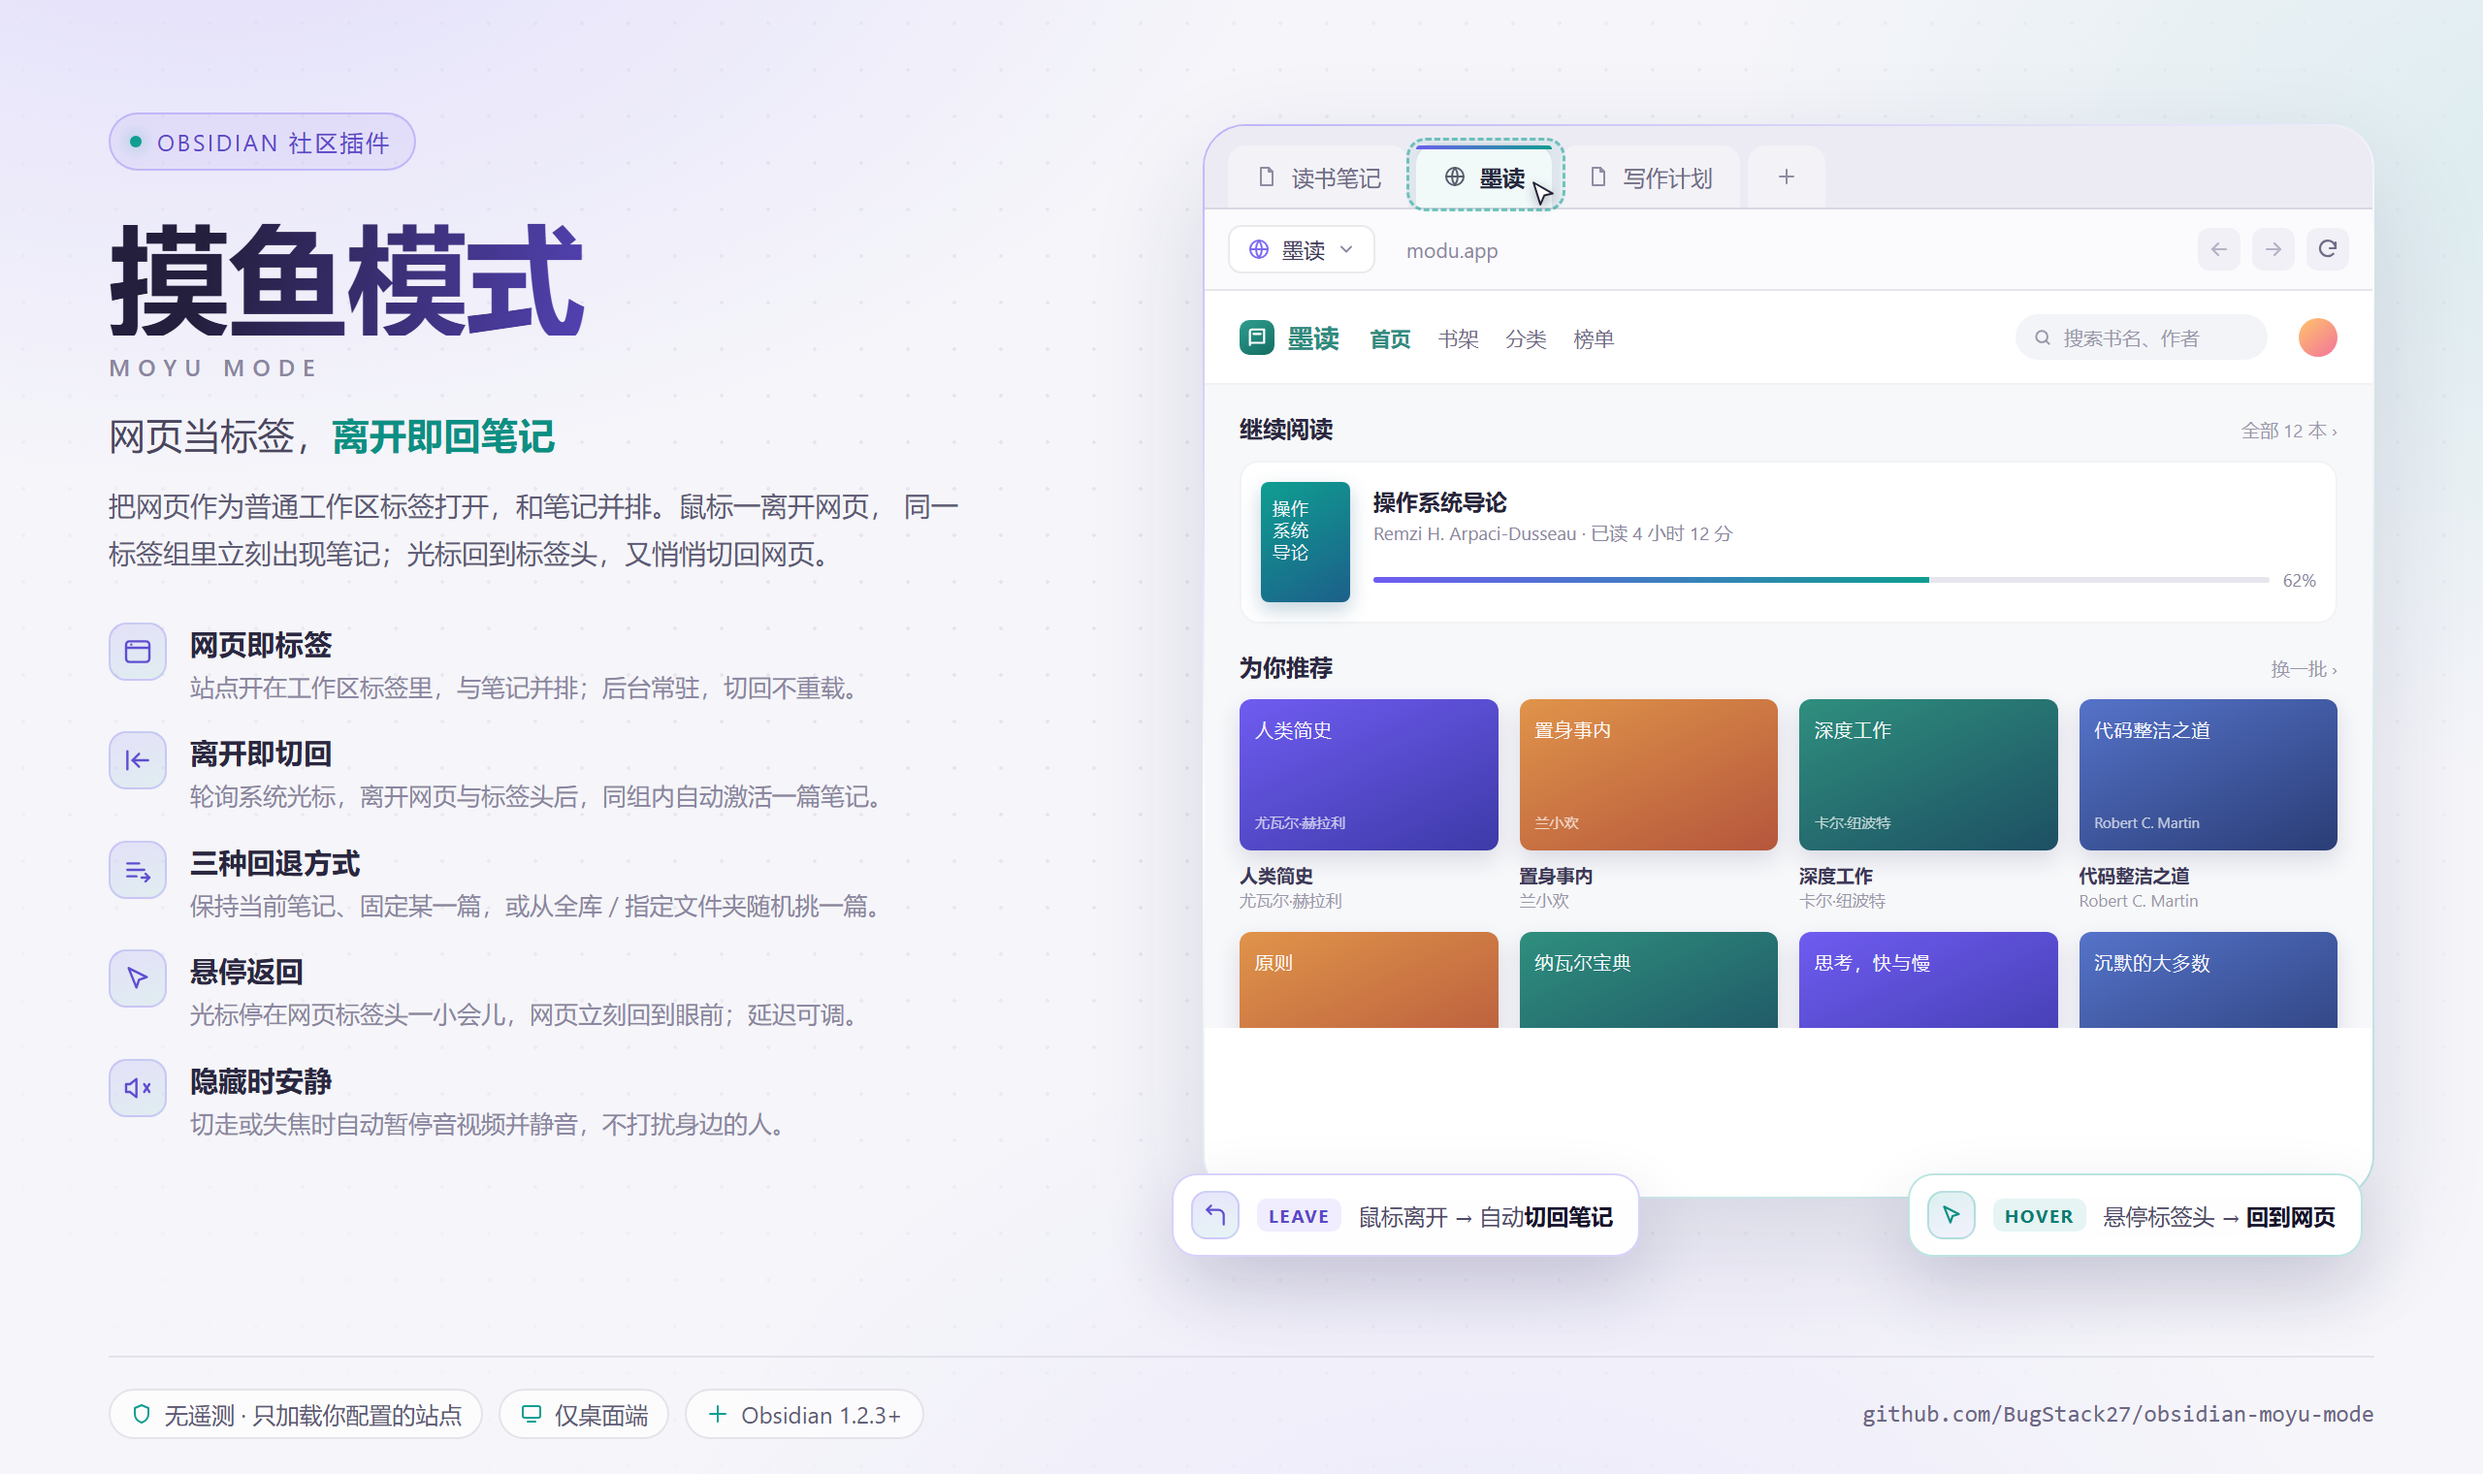
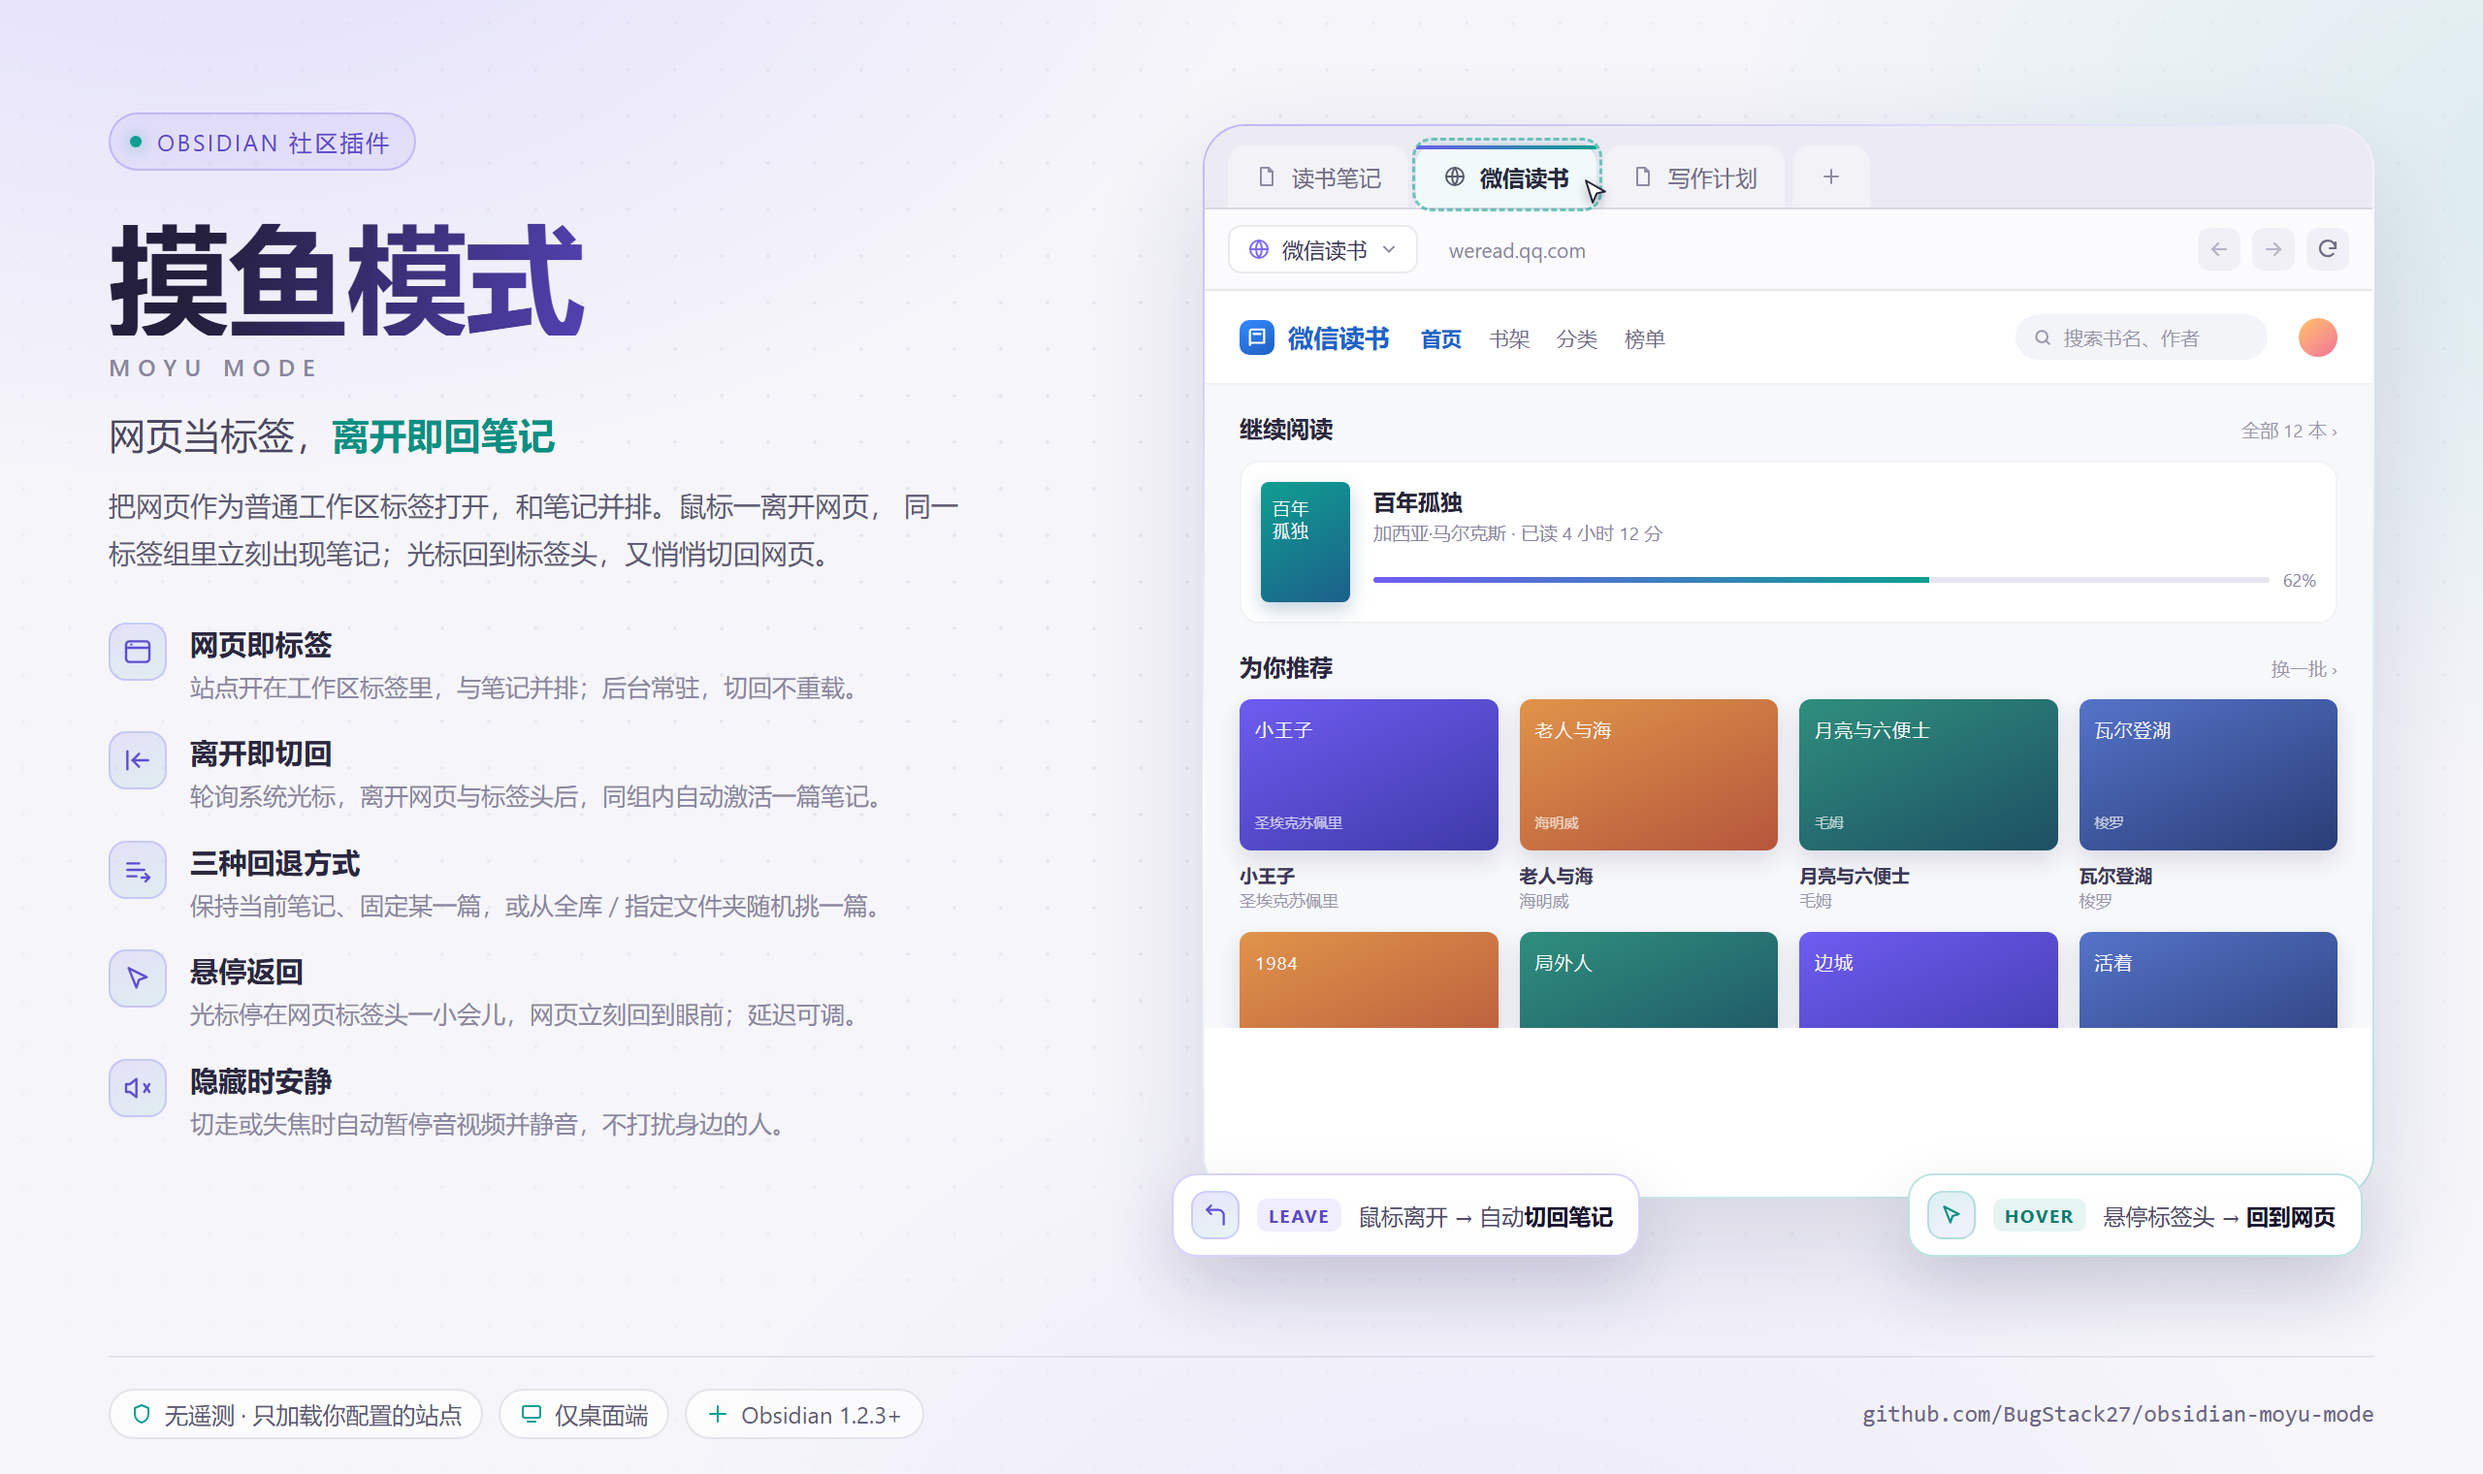
docs: 宣传图恢复微信读书并更换书目
- 模拟站点恢复为微信读书与 weread.qq.com
- 继续阅读与推荐书目换成通用经典书，不展示个人书单

diff --git a/assets/promo.html b/assets/promo.html
@@ -225,9 +225,9 @@
   /* Hover hint on the tab */
   .tab-hover {
     position: absolute;
-    left: 104px;
+    left: 107px;
     top: 6px;
-    width: 82px;
+    width: 98px;
     height: 38px;
     border: 1.5px dashed rgba(15, 158, 145, 0.55);
     border-radius: 10px;
@@ -236,8 +236,8 @@
   }
   .cursor {
     position: absolute;
-    left: 166px;
-    top: 27px;
+    left: 193px;
+    top: 26px;
     width: 17px;
     height: 17px;
     filter: drop-shadow(0 2px 3px rgba(20, 16, 50, 0.3));
@@ -303,19 +303,19 @@
   }
   .brand {
     display: flex; align-items: center; gap: 7px;
-    font-size: 13px; font-weight: 700; color: #2e8b7d;
+    font-size: 13px; font-weight: 700; color: #1e63c8;
     letter-spacing: 0.01em;
   }
   .brand .mark {
     width: 18px; height: 18px;
     border-radius: 5px;
-    background: linear-gradient(150deg, #2f9e8f, #146c62);
+    background: linear-gradient(150deg, #338aff, #1e5fc0);
     display: flex; align-items: center; justify-content: center;
     color: #ffffff;
   }
   .brand .mark svg { width: 11px; height: 11px; }
   .web-links { display: flex; gap: 14px; font-size: 10.5px; color: #6f6b86; }
-  .web-links .on { color: #2e8b7d; font-weight: 600; }
+  .web-links .on { color: #1e63c8; font-weight: 600; }
   .web-search {
     margin-left: auto;
     display: flex; align-items: center; gap: 6px;
@@ -552,7 +552,7 @@
               </div>
               <div class="tab active">
                 <svg viewBox="0 0 24 24" fill="none" stroke="currentColor" stroke-width="2" stroke-linecap="round" stroke-linejoin="round"><circle cx="12" cy="12" r="9"/><path d="M3 12h18"/><path d="M12 3a15 15 0 0 1 0 18 15 15 0 0 1 0-18z"/></svg>
-                墨读
+                微信读书
               </div>
               <div class="tab">
                 <svg viewBox="0 0 24 24" fill="none" stroke="currentColor" stroke-width="2" stroke-linecap="round" stroke-linejoin="round"><path d="M6 3h8l4 4v14H6z"/><path d="M14 3v4h4"/></svg>
@@ -571,10 +571,10 @@
             <div class="toolbar">
               <div class="site-select">
                 <svg class="globe" viewBox="0 0 24 24" fill="none" stroke="currentColor" stroke-width="2" stroke-linecap="round" stroke-linejoin="round"><circle cx="12" cy="12" r="9"/><path d="M3 12h18"/><path d="M12 3a15 15 0 0 1 0 18 15 15 0 0 1 0-18z"/></svg>
-                墨读
+                微信读书
                 <svg viewBox="0 0 24 24" fill="none" stroke="currentColor" stroke-width="2.2" stroke-linecap="round" stroke-linejoin="round"><path d="m6 9 6 6 6-6"/></svg>
               </div>
-              <div class="address">modu.app</div>
+              <div class="address">weread.qq.com</div>
               <div class="navbtns">
                 <span class="navbtn dim"><svg viewBox="0 0 24 24" fill="none" stroke="currentColor" stroke-width="2.2" stroke-linecap="round" stroke-linejoin="round"><path d="M19 12H5"/><path d="m11 6-6 6 6 6"/></svg></span>
                 <span class="navbtn dim"><svg viewBox="0 0 24 24" fill="none" stroke="currentColor" stroke-width="2.2" stroke-linecap="round" stroke-linejoin="round"><path d="M5 12h14"/><path d="m13 6 6 6-6 6"/></svg></span>
@@ -588,7 +588,7 @@
                   <span class="mark">
                     <svg viewBox="0 0 24 24" fill="none" stroke="currentColor" stroke-width="2.4" stroke-linecap="round" stroke-linejoin="round"><path d="M4 5.5A2.5 2.5 0 0 1 6.5 3H20v15H6.5A2.5 2.5 0 0 0 4 20.5z"/><path d="M8 8h8"/></svg>
                   </span>
-                  墨读
+                  微信读书
                 </div>
                 <div class="web-links">
                   <span class="on">首页</span>
@@ -610,10 +610,10 @@
                 </div>
 
                 <div class="continue">
-                  <div class="cover"><span>操作</span><span>系统</span><span>导论</span></div>
+                  <div class="cover"><span>百年</span><span>孤独</span></div>
                   <div class="meta">
-                    <div class="book">操作系统导论</div>
-                    <div class="author">Remzi H. Arpaci-Dusseau · 已读 4 小时 12 分</div>
+                    <div class="book">百年孤独</div>
+                    <div class="author">加西亚·马尔克斯 · 已读 4 小时 12 分</div>
                     <div class="progress">
                       <div class="bar"><i></i></div>
                       <span class="pct">62%</span>
@@ -628,44 +628,44 @@
 
                 <div class="shelf">
                   <div class="book-card">
-                    <div class="bc b1"><span>人类简史</span><span class="by">尤瓦尔·赫拉利</span></div>
-                    <div class="bt">人类简史</div>
-                    <div class="ba">尤瓦尔·赫拉利</div>
+                    <div class="bc b1"><span>小王子</span><span class="by">圣埃克苏佩里</span></div>
+                    <div class="bt">小王子</div>
+                    <div class="ba">圣埃克苏佩里</div>
                   </div>
                   <div class="book-card">
-                    <div class="bc b2"><span>置身事内</span><span class="by">兰小欢</span></div>
-                    <div class="bt">置身事内</div>
-                    <div class="ba">兰小欢</div>
+                    <div class="bc b2"><span>老人与海</span><span class="by">海明威</span></div>
+                    <div class="bt">老人与海</div>
+                    <div class="ba">海明威</div>
                   </div>
                   <div class="book-card">
-                    <div class="bc b3"><span>深度工作</span><span class="by">卡尔·纽波特</span></div>
-                    <div class="bt">深度工作</div>
-                    <div class="ba">卡尔·纽波特</div>
+                    <div class="bc b3"><span>月亮与六便士</span><span class="by">毛姆</span></div>
+                    <div class="bt">月亮与六便士</div>
+                    <div class="ba">毛姆</div>
                   </div>
                   <div class="book-card">
-                    <div class="bc b4"><span>代码整洁之道</span><span class="by">Robert C. Martin</span></div>
-                    <div class="bt">代码整洁之道</div>
-                    <div class="ba">Robert C. Martin</div>
+                    <div class="bc b4"><span>瓦尔登湖</span><span class="by">梭罗</span></div>
+                    <div class="bt">瓦尔登湖</div>
+                    <div class="ba">梭罗</div>
                   </div>
                   <div class="book-card">
-                    <div class="bc b2"><span>原则</span><span class="by">瑞·达利欧</span></div>
-                    <div class="bt">原则</div>
-                    <div class="ba">瑞·达利欧</div>
+                    <div class="bc b2"><span>1984</span><span class="by">乔治·奥威尔</span></div>
+                    <div class="bt">1984</div>
+                    <div class="ba">乔治·奥威尔</div>
                   </div>
                   <div class="book-card">
-                    <div class="bc b3"><span>纳瓦尔宝典</span><span class="by">埃里克·乔根森</span></div>
-                    <div class="bt">纳瓦尔宝典</div>
-                    <div class="ba">埃里克·乔根森</div>
+                    <div class="bc b3"><span>局外人</span><span class="by">加缪</span></div>
+                    <div class="bt">局外人</div>
+                    <div class="ba">加缪</div>
                   </div>
                   <div class="book-card">
-                    <div class="bc b1"><span>思考，快与慢</span><span class="by">丹尼尔·卡尼曼</span></div>
-                    <div class="bt">思考，快与慢</div>
-                    <div class="ba">丹尼尔·卡尼曼</div>
+                    <div class="bc b1"><span>边城</span><span class="by">沈从文</span></div>
+                    <div class="bt">边城</div>
+                    <div class="ba">沈从文</div>
                   </div>
                   <div class="book-card">
-                    <div class="bc b4"><span>沉默的大多数</span><span class="by">王小波</span></div>
-                    <div class="bt">沉默的大多数</div>
-                    <div class="ba">王小波</div>
+                    <div class="bc b4"><span>活着</span><span class="by">余华</span></div>
+                    <div class="bt">活着</div>
+                    <div class="ba">余华</div>
                   </div>
                 </div>
               </div>
